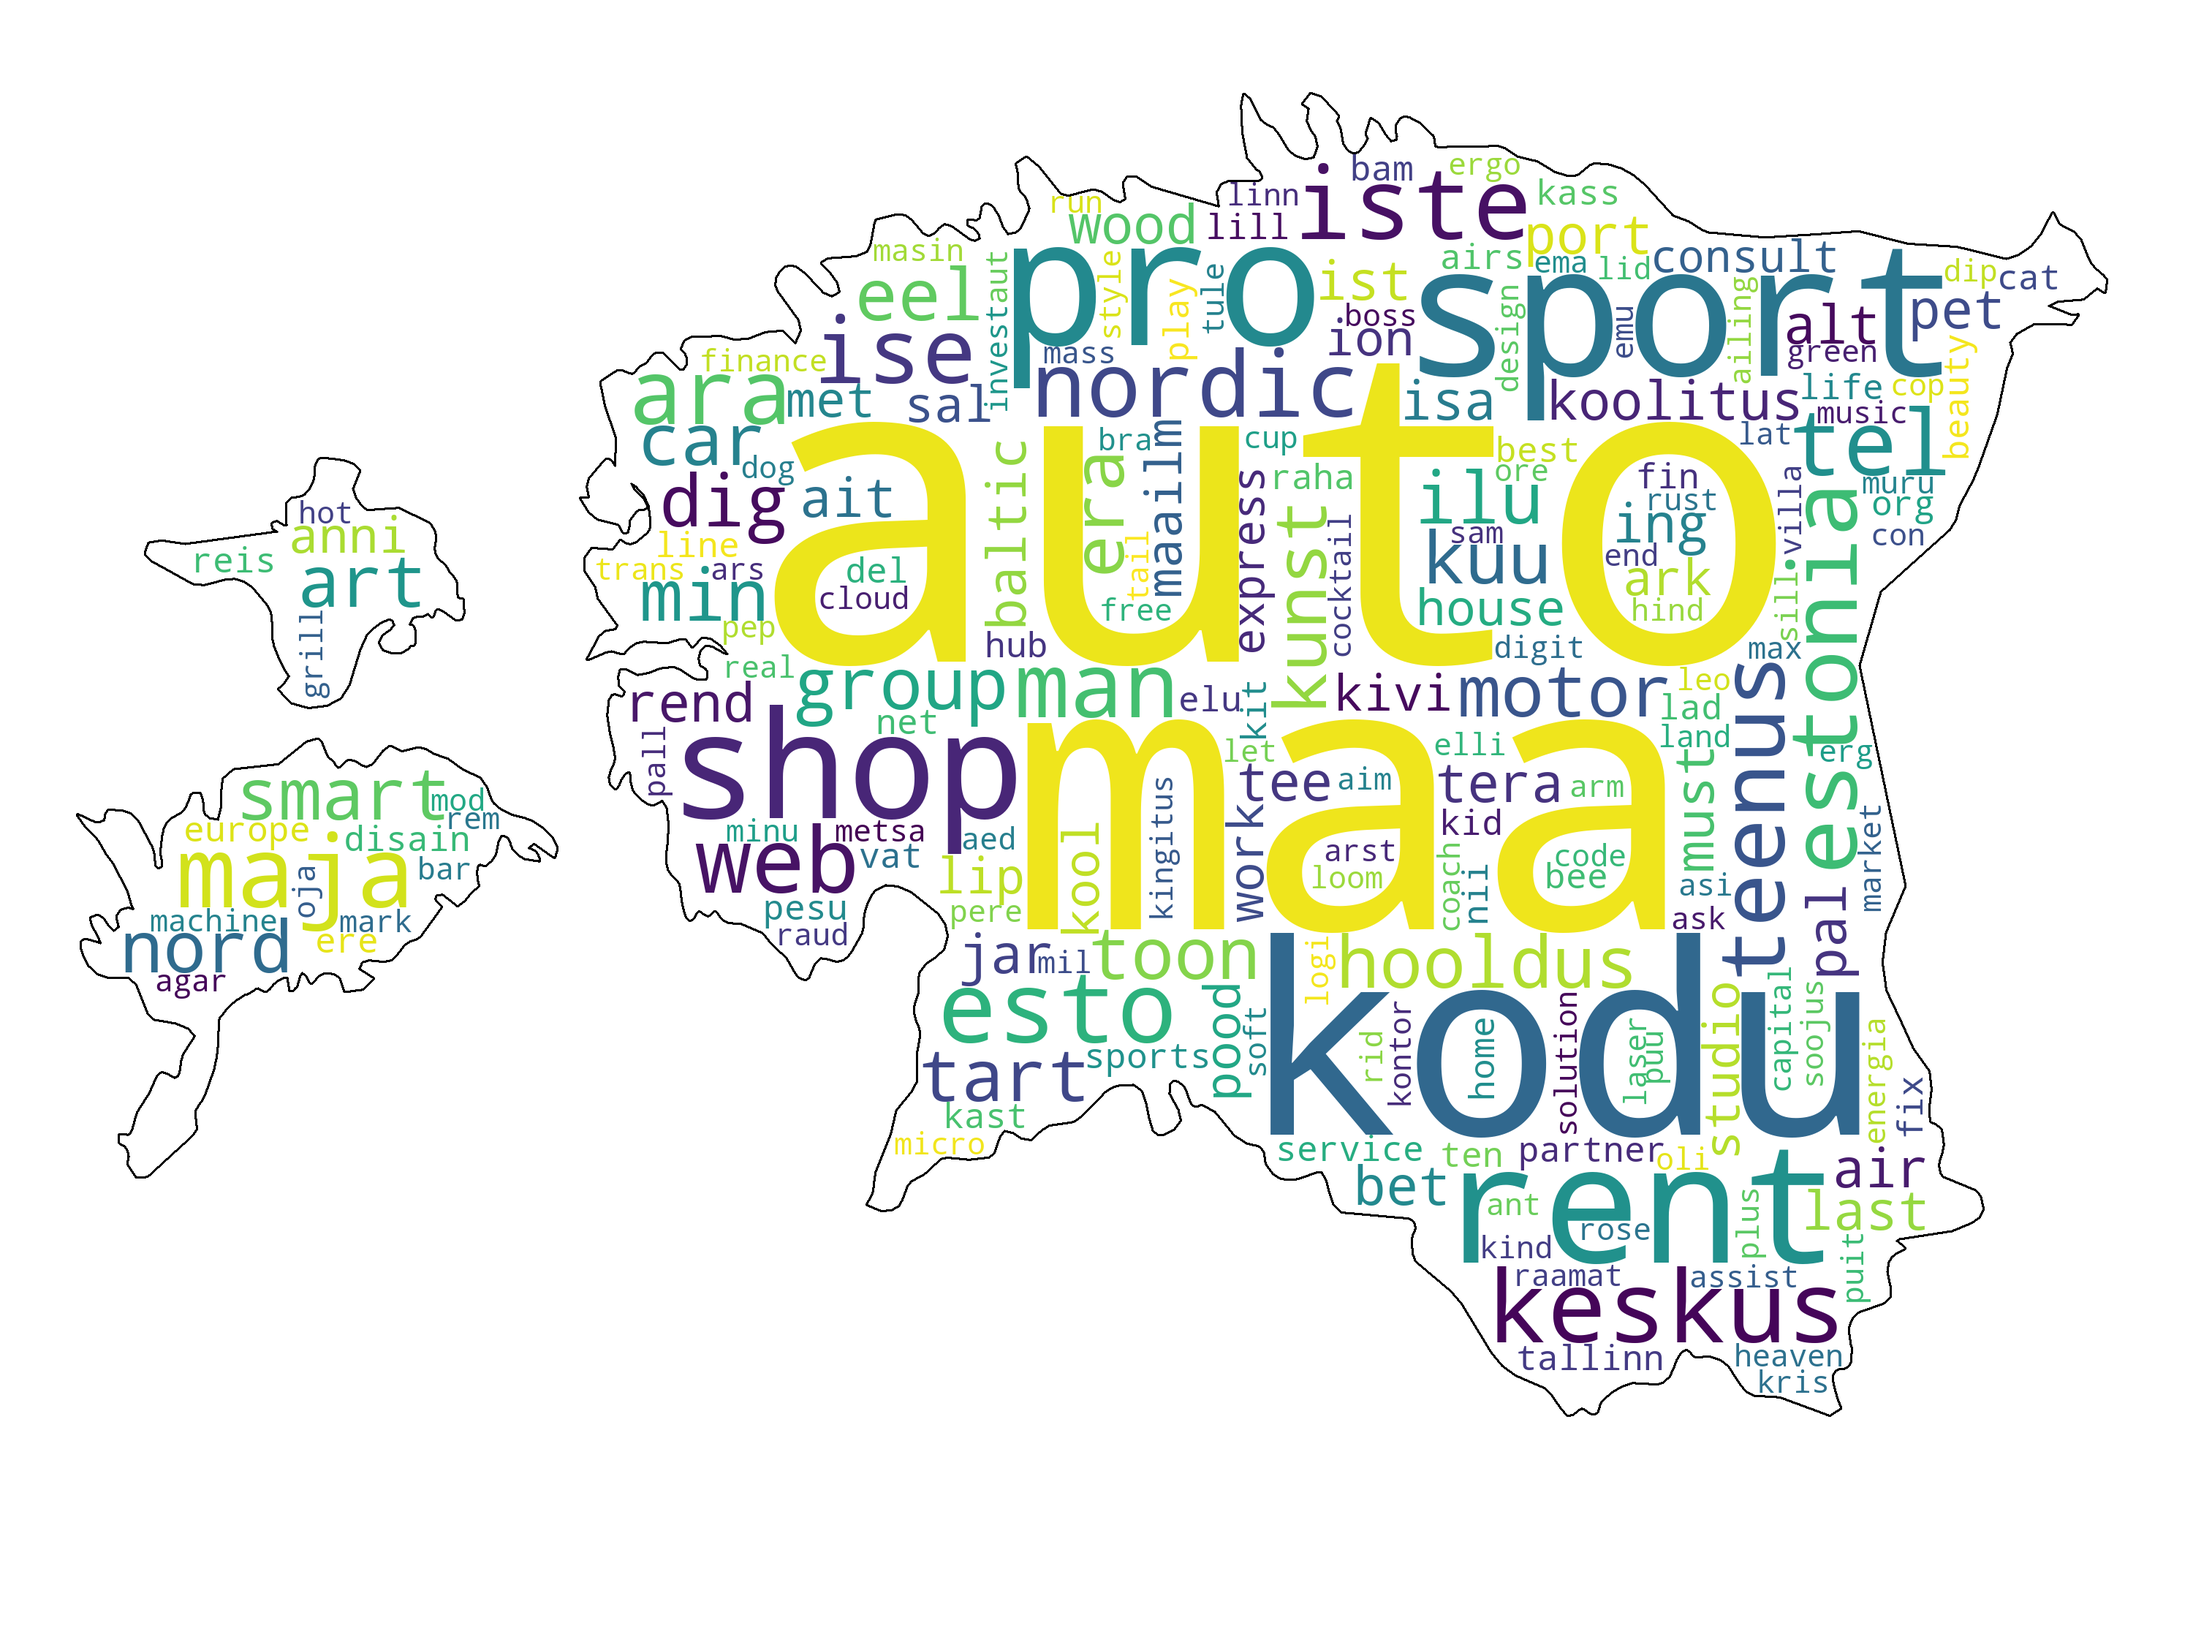
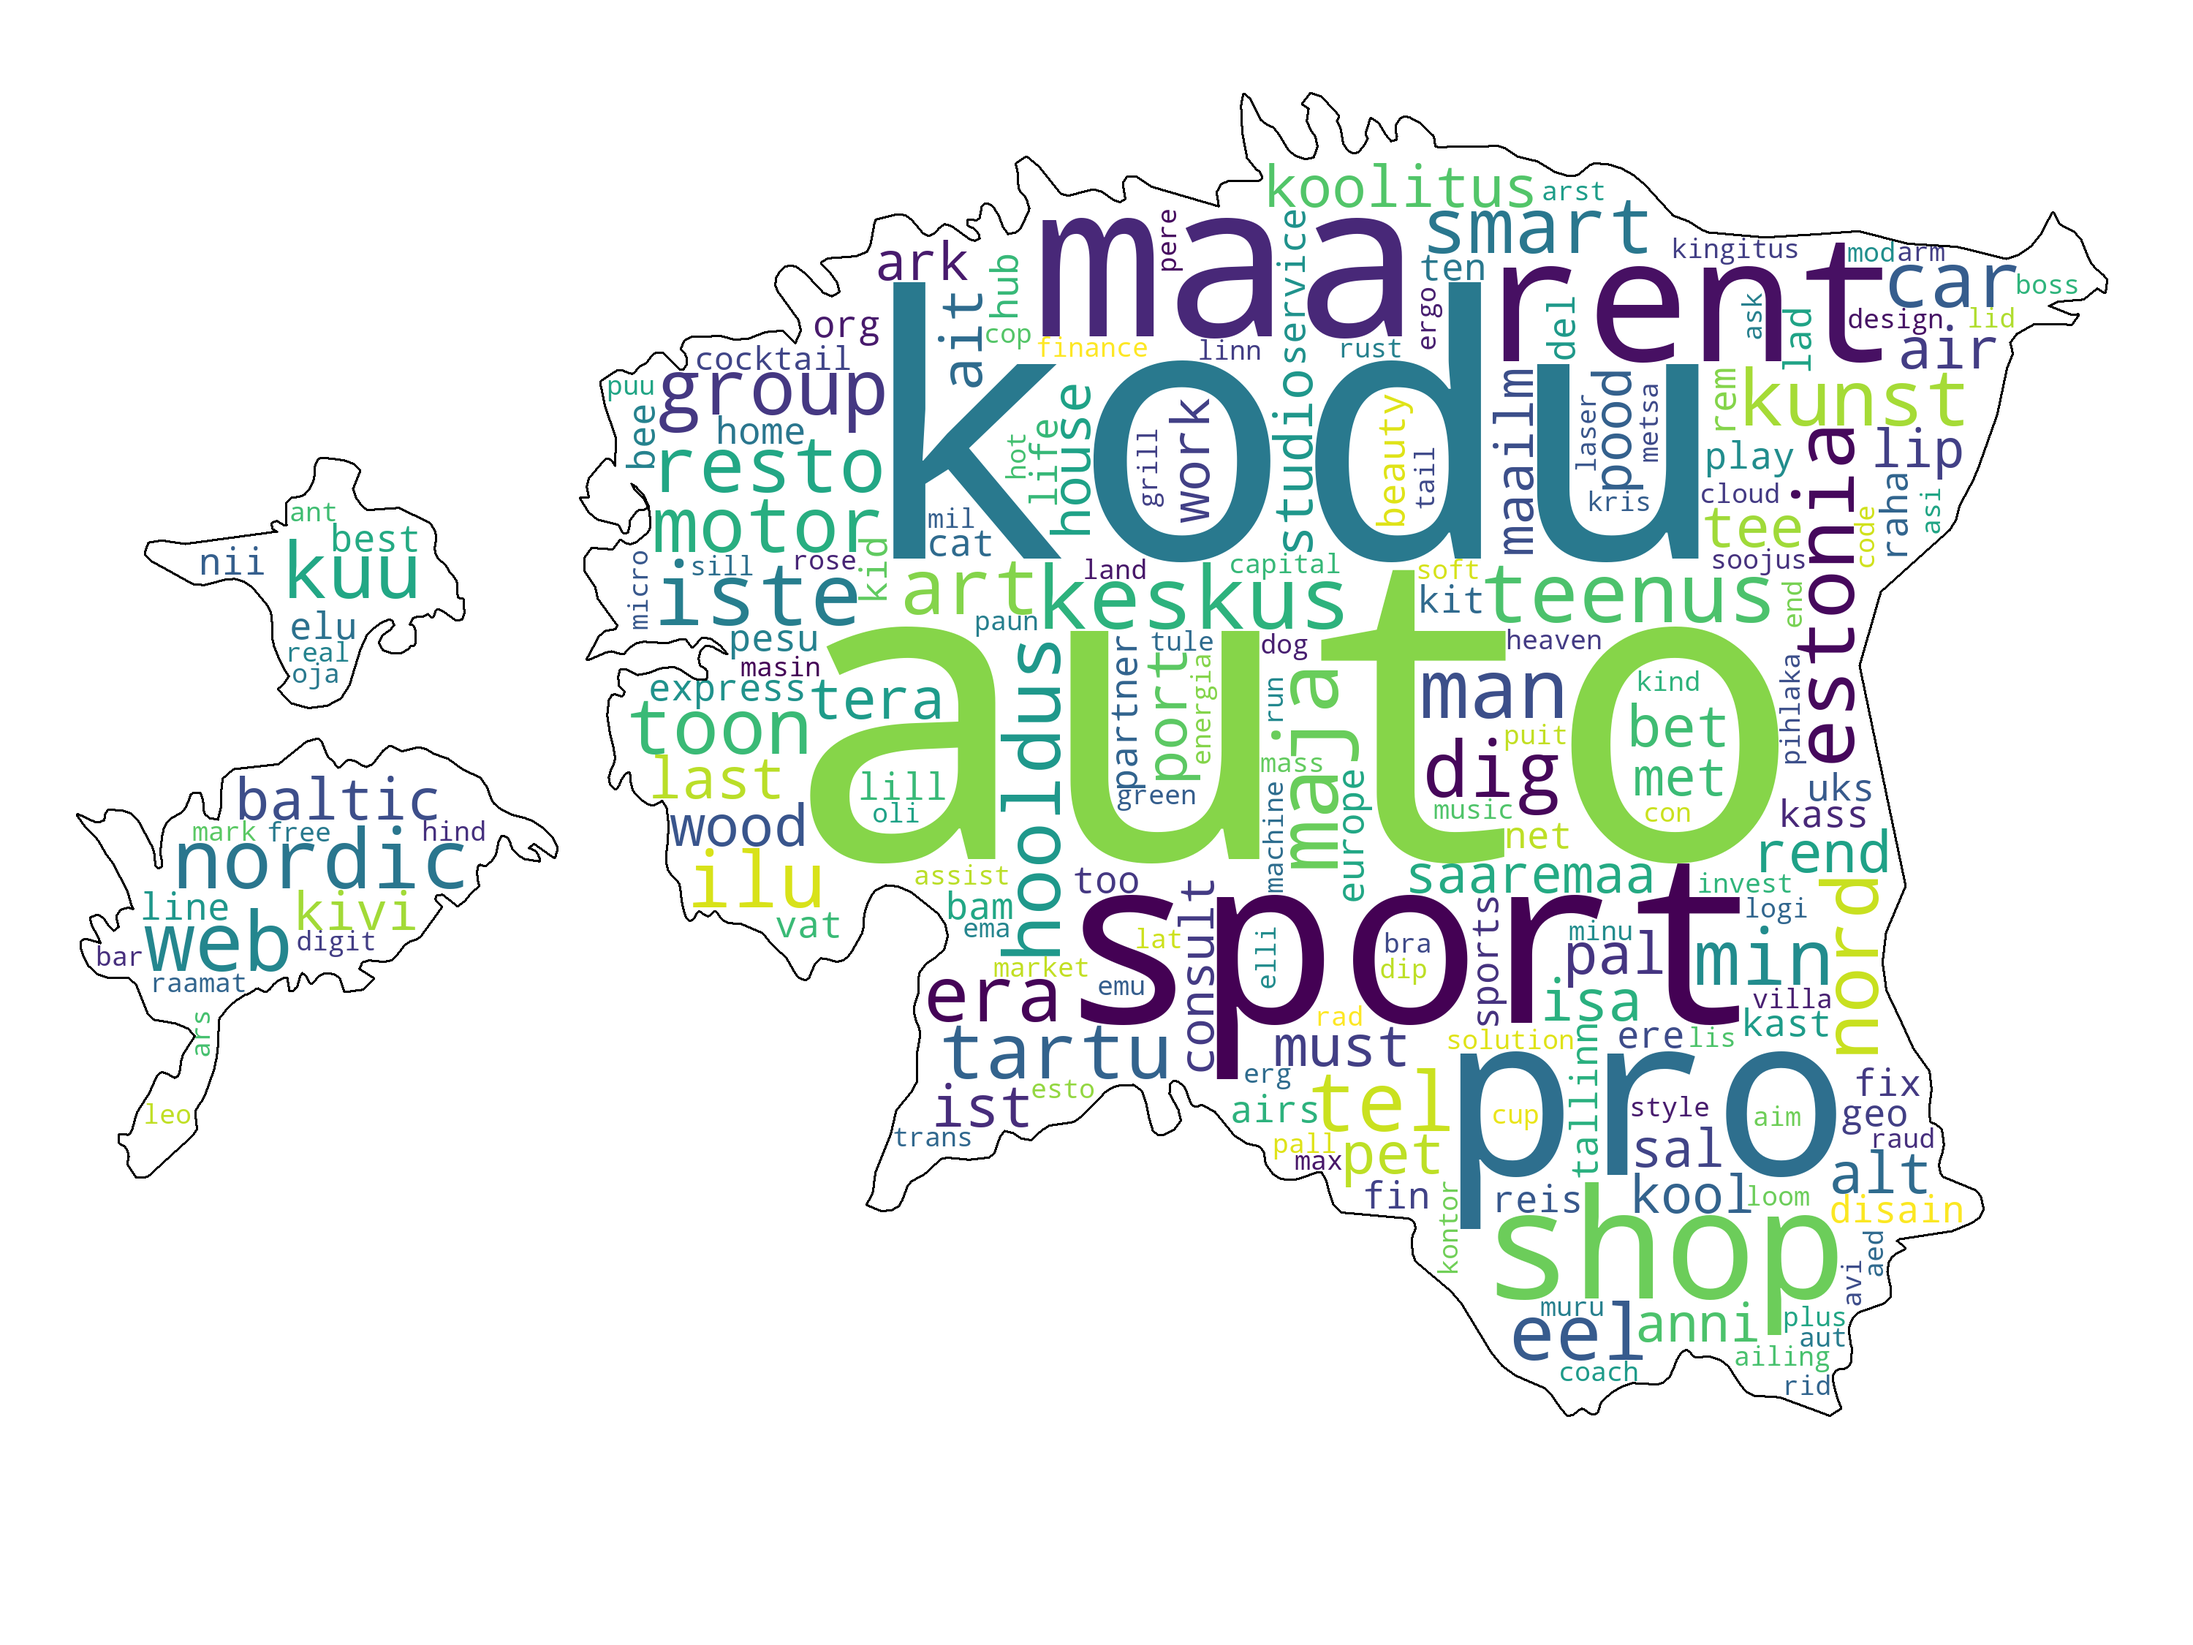
updated worlist

Changed region(s): [[0.279, 0.0933, 0.961, 0.8711], [0.031, 0.4667, 0.217, 0.6222], [0.093, 0.3111, 0.186, 0.4356]]

diff --git a/wcg.py b/wcg.py
@@ -12,7 +12,7 @@ estonian_stopwords = {
     'olen', 'oleme', 'oled', 'nad', 'siis', 'või', 'kõik', 'ka', 'sest', 'mida',
     'kes', 'kus', 'millal', 'sina', 'tema', 'neid', 'sind', 'mind', 'teie', 'ees',
     'loo', 'est', 'aha', 'mar', 'pia', 'ori', 'illa', 'ell', 'ana', 'anna', 'utu',
-    'amine', 'mam', 'alar', 'kai', 'oka', 'mine', 'ala'
+    'amine', 'mam', 'alar', 'kai', 'oka', 'mine', 'ala', 'ara', 'ise'
 }
 
 # 1. Hardcoded English stopwords list
@@ -27,7 +27,7 @@ english_stopwords = {
     'dita', 'per', 'kal', 'val', 'ein', 'ani', 'ame', 'ave', 'nut', 'tar', 'ate',
     'ade', 'par', 'uti', 'did', 'dis', 'che', 'bib', 'lek', 'ter', 'dee', 'des',
     'ken', 'rit', 'lev', 'rote', 'ote', 'gre', 'lin', 'gre', 'tor', 'nam', 'oka',
-    'jut', 'lee'
+    'jut', 'lee', 'jar', 'ing', 'ion', 'ore', 'let', 'pep', 'sed'
 }
 
 # 2. Combine Estonian and English stopwords
